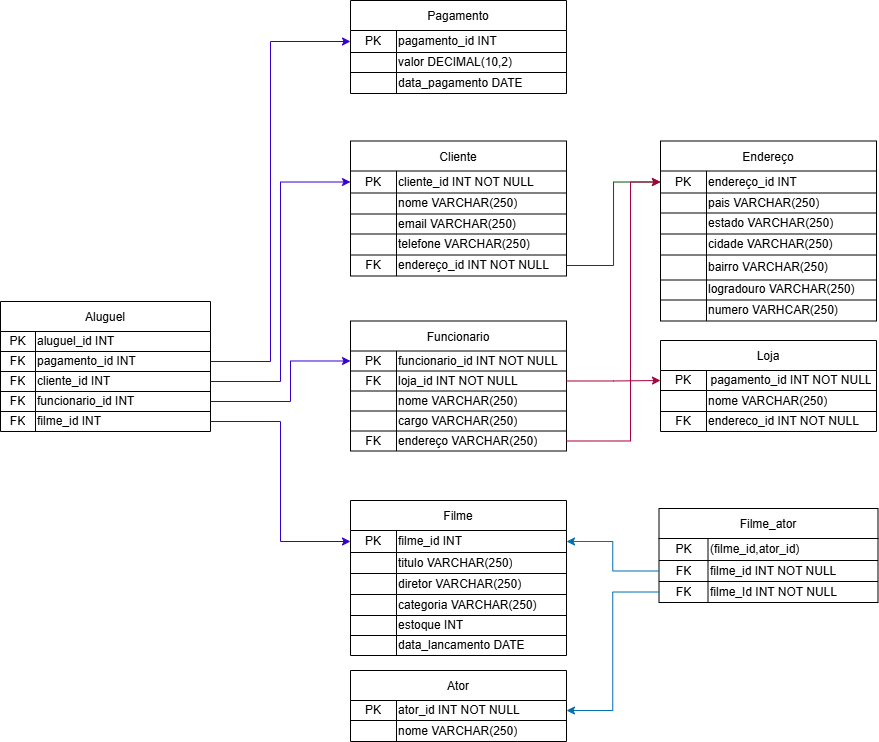
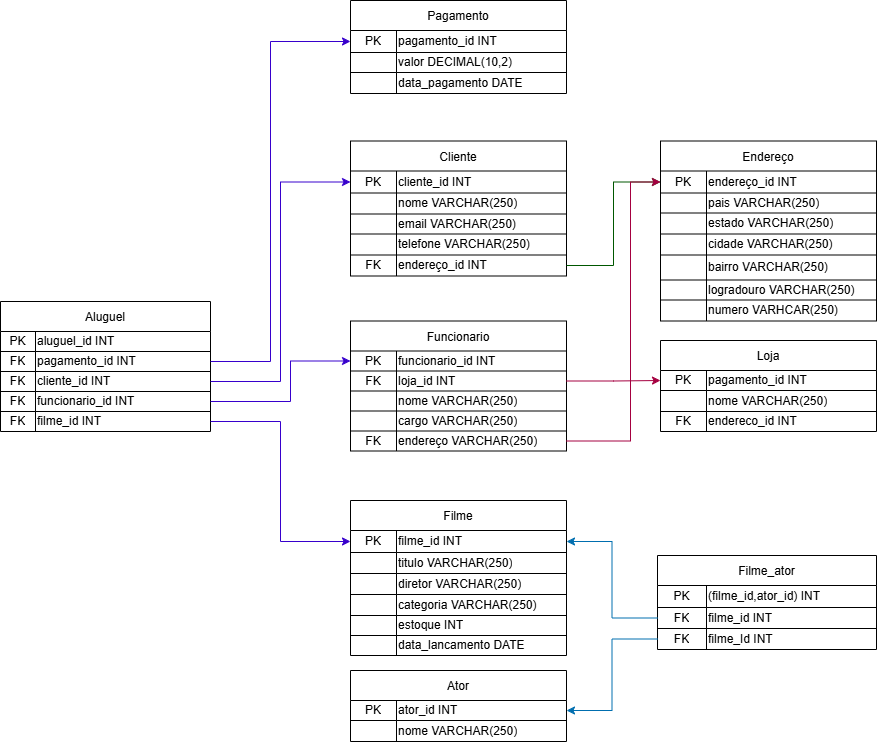
Adição de consultas e alteração da sintaxe de postgres para mysql, atualização no readme e diagrama de classes

diff --git a/readme.md b/readme.md
@@ -19,7 +19,7 @@ O objetivo do banco de dados e organizar as principais informacoes de uma locado
 ## Arquivos do projeto
 
 - [Construção.sql](Construção.sql): Contem a criação inicial das tabelas e inserções iniciais.
-- [Consultas.sql](Construção.sql): Contem consultas de teste.
+- [Consultas.sql](Construção.sql): Consultas de teste para o banco de dados.
 - [DicionarioDeDados.md](DicionarioDeDados.md): descreve as tabelas, campos, tipos de dados, chaves e relacionamentos do banco.
 - [Diagrama.png](Diagrama.png): representacao visual do modelo do banco de dados.
 
@@ -51,3 +51,10 @@ A representacao visual do banco pode ser consultada no arquivo [Diagrama.png](Di
 
 As informacoes detalhadas sobre cada tabela estao disponiveis em [DicionarioDeDados.md](DicionarioDeDados.md).
 
+ ## Ferramentas utilizadas
+ -- Visual Studio Code para escrita da documentação e código
+ -- MySQL Workbench Executar os códigos e interface gráfica
+ -- Draw.io para representação visual do diagrama
+
+ ## Referencias utilizadas
+ --w3schools.com/MySQL